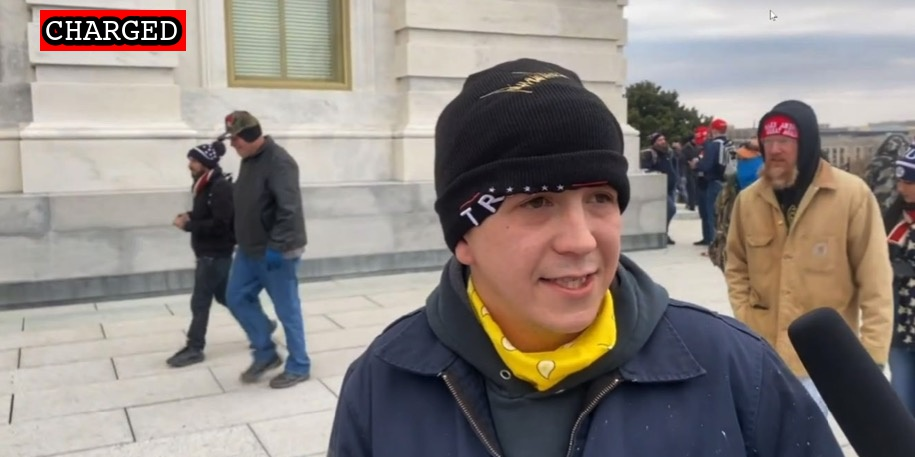
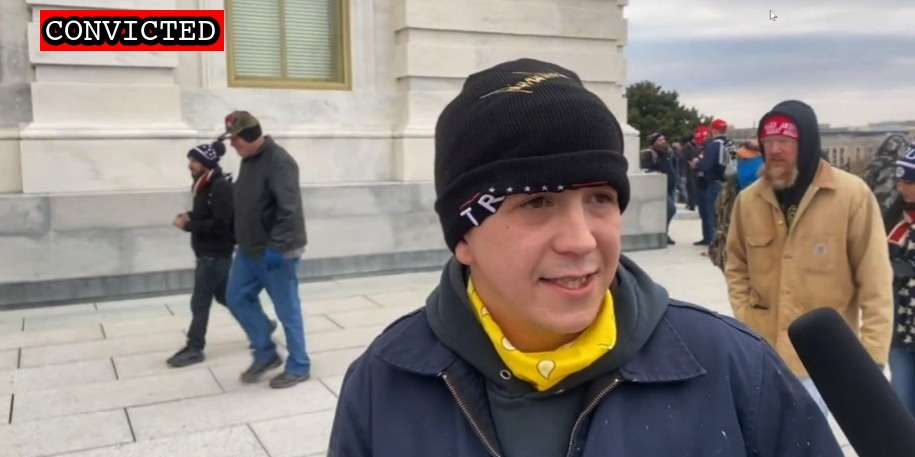
New conviction

Changed region(s): [[0.0612, 0.0, 0.2448, 0.1225]]

diff --git a/docs/_suspects/mikhail-slye.md b/docs/_suspects/mikhail-slye.md
@@ -4,11 +4,11 @@ lastName: Slye
 hashtag: JackTheTripper
 aka:
 residence: Pennsylvania
-status: Charged
+status: Convicted
 date: 2022-09-29
 charged: 2022-09-29
 indicted:
-convicted:
+convicted: 2023-01-03
 acquitted:
 sentenced:
 dismissed:
@@ -32,7 +32,7 @@ raid:
 perpwalk:
 quote:
 title: Mikhail Slye charged on September 29th, 2022
-description: Click for latest case details. Suspects innocent until proven guilty.
+description: Convicted on January 3, 2023. Click for latest case details.
 author: seditiontrack
 layout: suspect
 published: true
@@ -41,8 +41,13 @@ caseName: USA v. SLYE
 judge: James E. Boasberg
 videos:
 charges:
+  - code: 18 USC § 111(a)(1)
+    title: Assaulting, resisting, or impeding certain officers or employees
+    url: https://www.law.cornell.edu/uscode/text/18/111
+    felony: true
 sentence:
 ---
+
 - [News Report](https://lawandcrime.com/u-s-capitol-breach/accused-jan-6th-rioter-dubbed-jackthetripper-for-allegedly-pushing-bike-rack-into-law-enforcement-charged-with-felonies/)
 - [Complaint](https://www.justice.gov/usao-dc/case-multi-defendant/file/1539651/download)
 - [Statement of Facts](https://www.justice.gov/usao-dc/case-multi-defendant/file/1539656/download)
